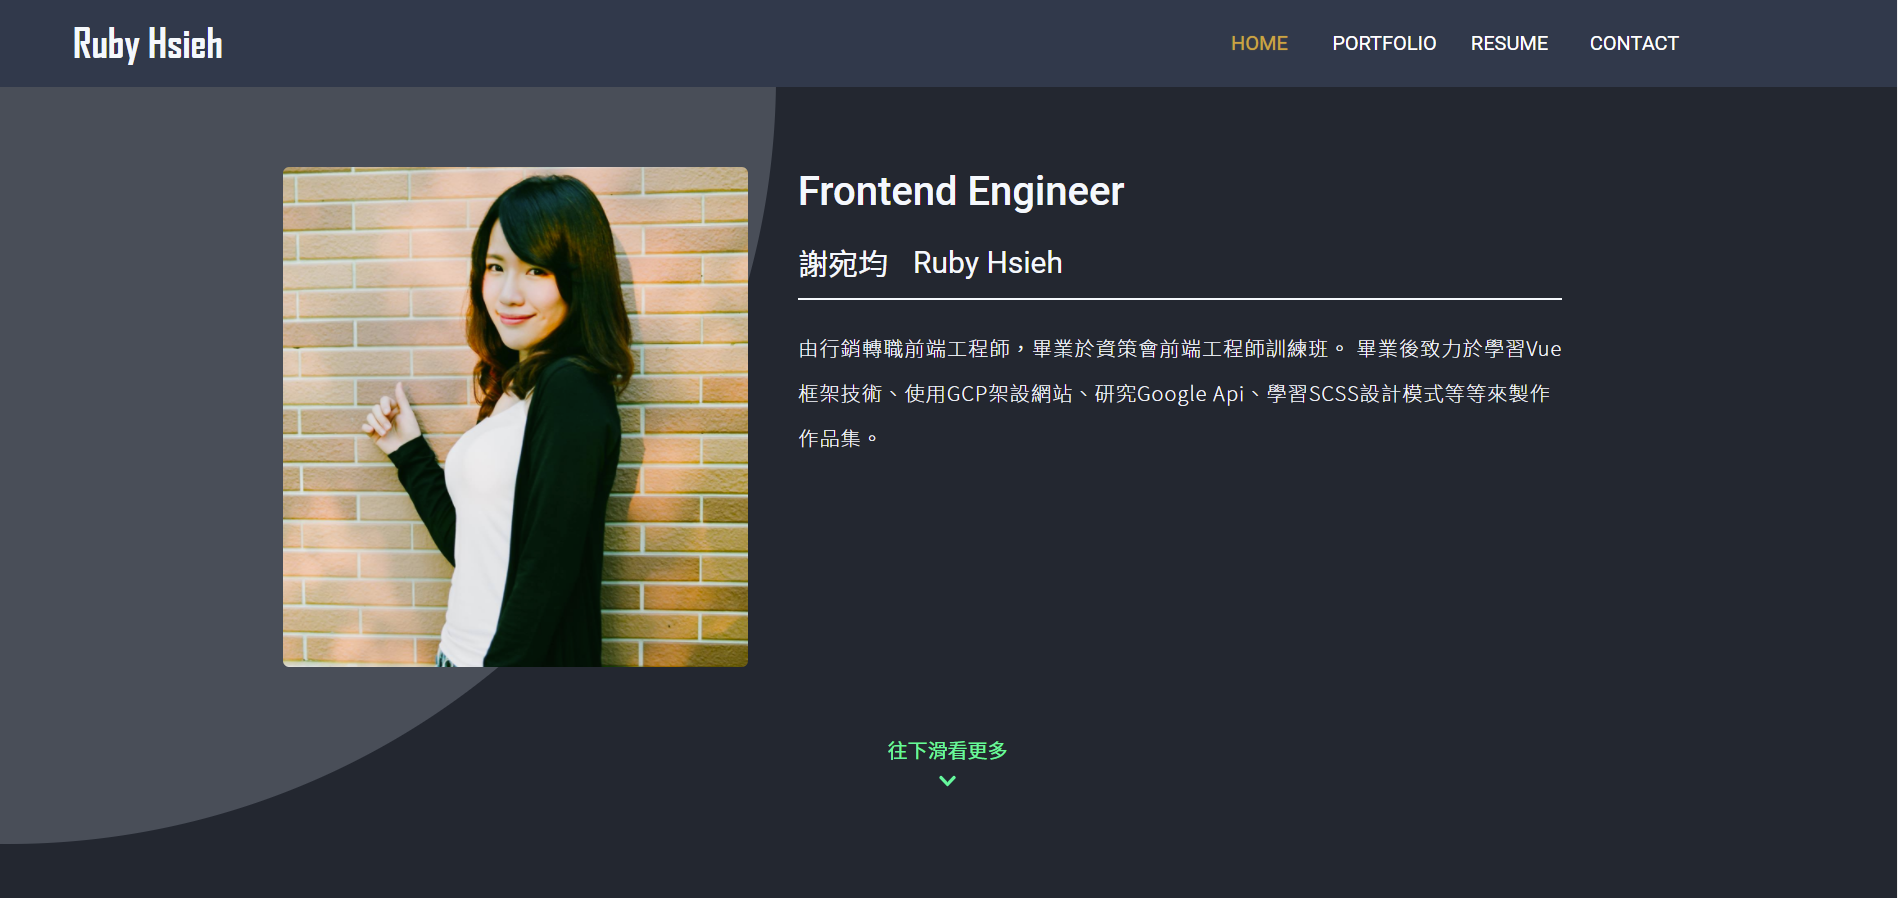
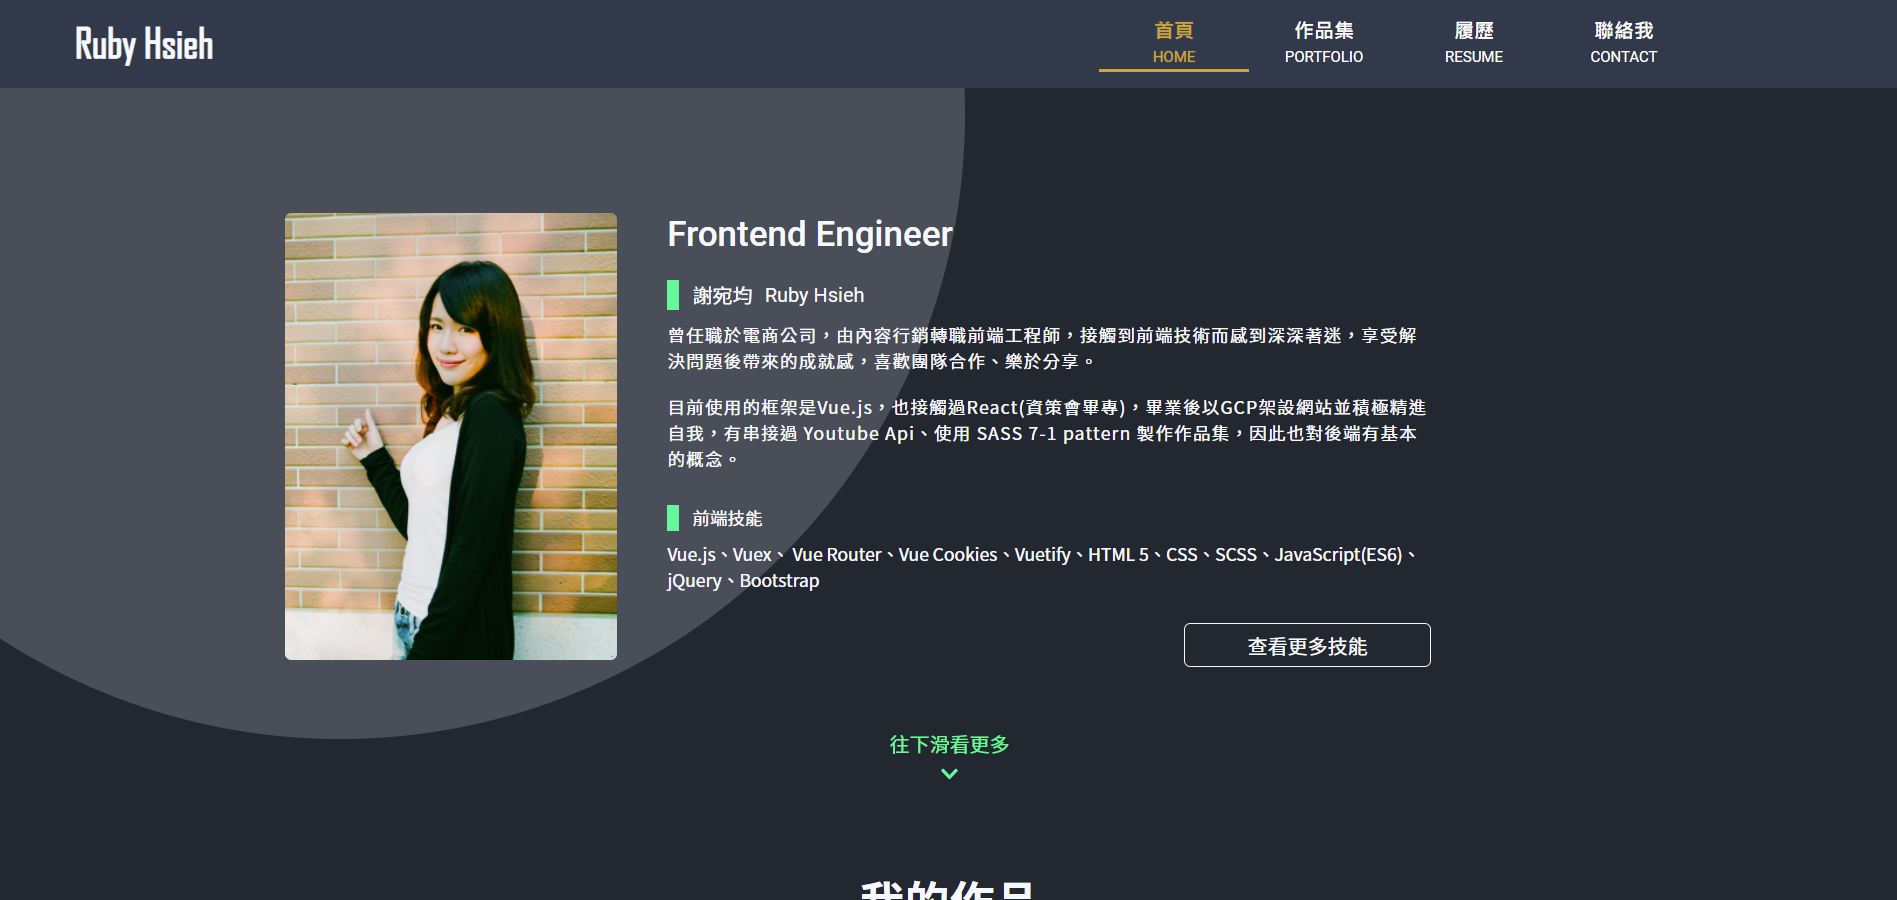
Refectory, edit protfolio and simpleintro info

diff --git a/ruby_website/src/components/SimpleIntro.vue b/ruby_website/src/components/SimpleIntro.vue
@@ -9,8 +9,8 @@
           <p class="en-name">Ruby Hsieh</p>
         </div>
         <div class="my-intro">
-          曾任職於美妝電商公司，由內容行銷轉職前端工程師，畢業於資策會前端工程師訓練班。
-          目前使用的框架是Vue.js，也接觸過React(資策會畢專)，畢業後以GCP架設網站並積極精進自我，有串接過 Youtube Api、使用 SASS 7-1 pattern 製作作品集。
+          <p>曾任職於電商公司，由內容行銷轉職前端工程師，接觸到前端技術而感到深深著迷，享受解決問題後帶來的成就感，喜歡團隊合作、樂於分享。</p>
+          <p>目前使用的框架是Vue.js，也接觸過React(資策會畢專)，畢業後以GCP架設網站並積極精進自我，有串接過 Youtube Api、使用 SASS 7-1 pattern 製作作品集，因此也對後端有基本的概念。</p>      
         </div>
         <div class="my-skill mt-3">
           <div class="skill-info">
